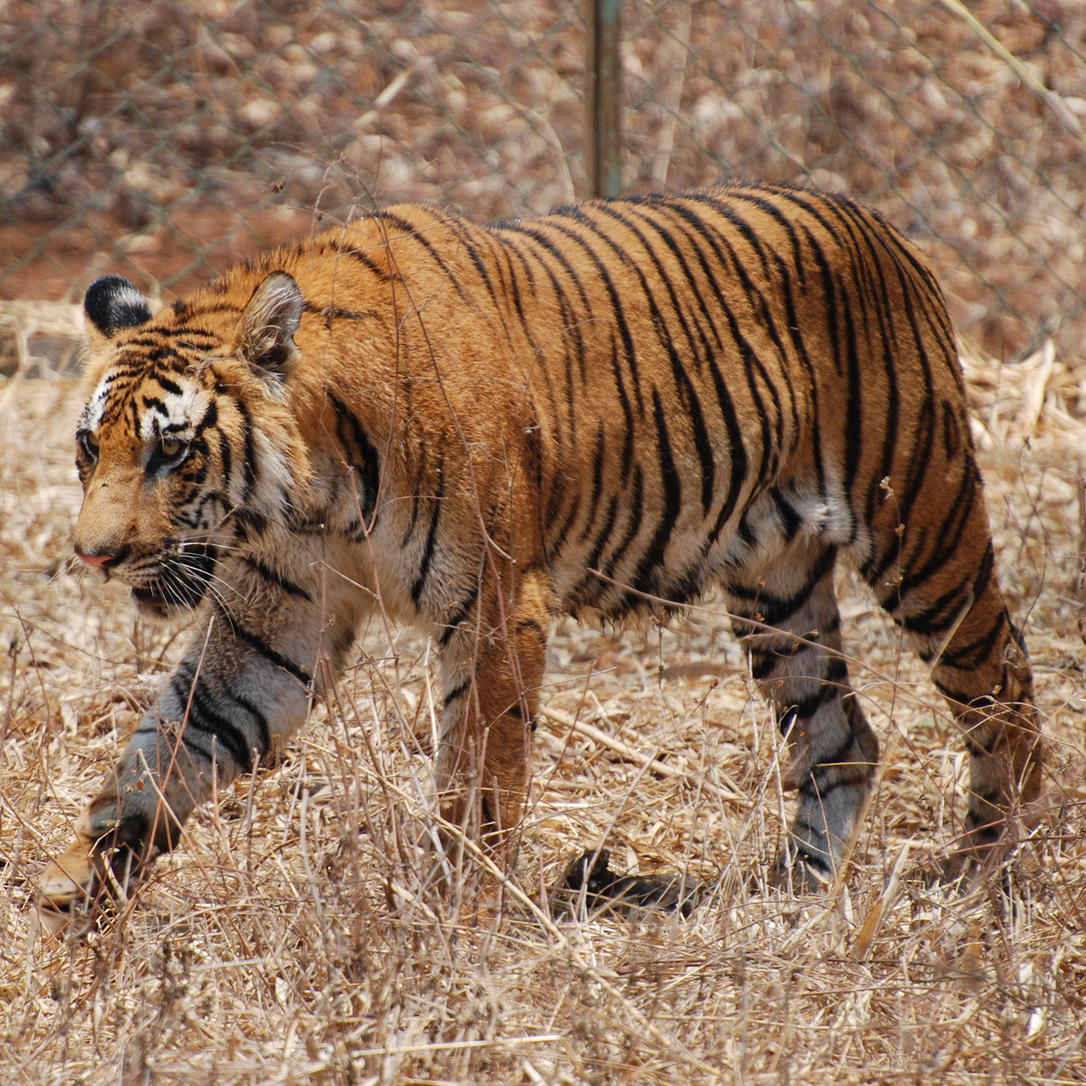
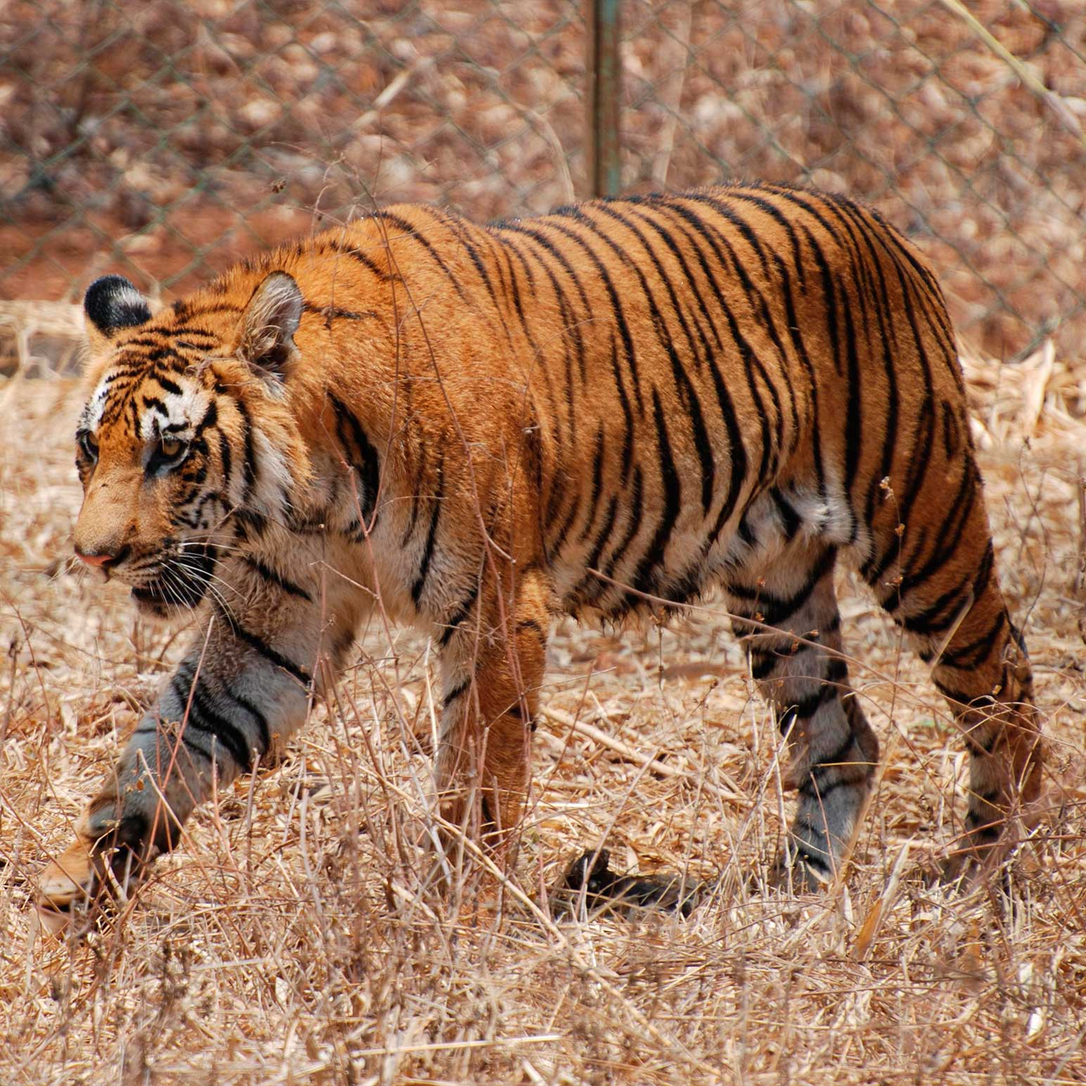
Validated CSS and resized images

diff --git a/species/index.html b/species/index.html
@@ -96,7 +96,7 @@ title: Species
     </div>
 
     <div class="unit unit-s-1 unit-m-1 unit-full img-padding">
-      <img src="{{site.baseurl}}/img/tigon.jpeg" alt="A rare Golden Tiger in the Buffalo Zoo" class="tiger-img">
+      <img src="{{site.baseurl}}/img/tigon.jpg" alt="A rare Golden Tiger in the Buffalo Zoo" class="tiger-img">
       <p>The less common tigon is a cross between the lioness and the male tiger. Unlike ligers, tigons are actually predisposed to being very small, being smaller than either of their parents or a similar size to their mother. This is as a result of inheriting a growth-inhibiting hormone. They are far rarer than ligers.</p>
     </div>
 

diff --git a/_includes/css/grid.css b/_includes/css/grid.css
@@ -1,7 +1,7 @@
 .grid {
   letter-spacing: -0.31em;
-  *letter-spacing: normal;
-  *word-spacing: -0.43em;
+  letter-spacing: normal;
+  word-spacing: -0.43em;
   text-rendering: optimizespeed;
 }
 .opera-only :-o-prefocus,
@@ -10,7 +10,7 @@
 }
 .unit {
   display: inline-block;
-  *display: inline;
+  display: inline;
   zoom: 1;
   letter-spacing: normal;
   text-rendering: auto;

diff --git a/_layouts/default.html b/_layouts/default.html
@@ -34,7 +34,7 @@
     <li><a href="#navigation">Skip to navigation</a></li>
   </ul>
 
-  <header class="banner" role="banner" id="navigation">
+  <header class="banner" role="banner">
       {% include nav.html %}
   </header>
 

diff --git a/_includes/css/nav.css b/_includes/css/nav.css
@@ -114,7 +114,7 @@ a:focus {
   .nav-secondary li {
     display: inline-block;
     font-size: 1em;
-    padding: 0.9;
+    padding: 0.9em;
   }
 }
 /* END 600*/
